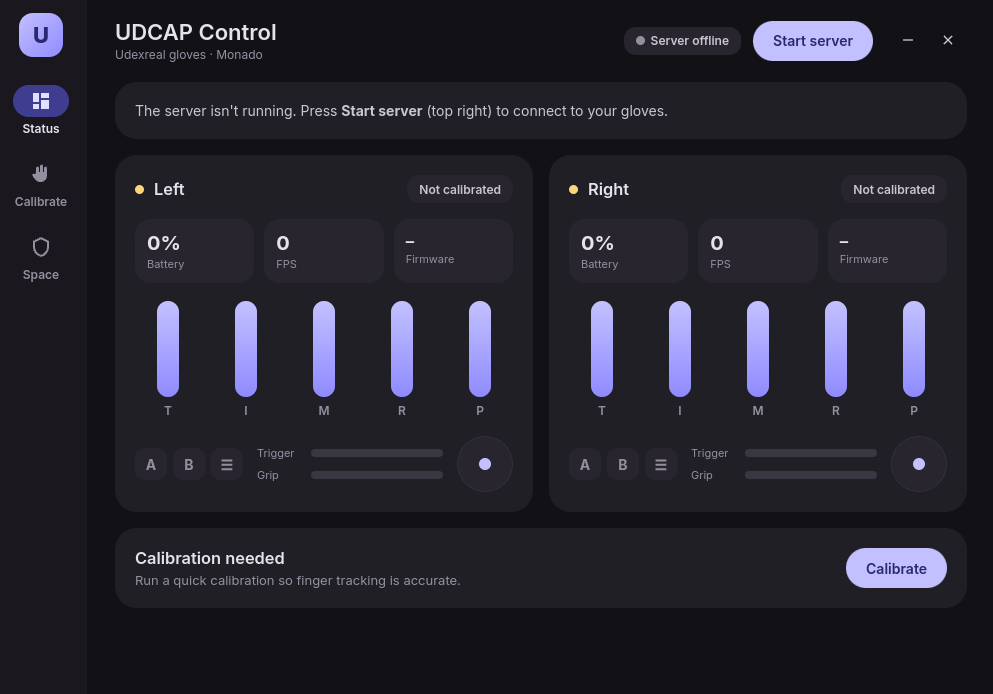
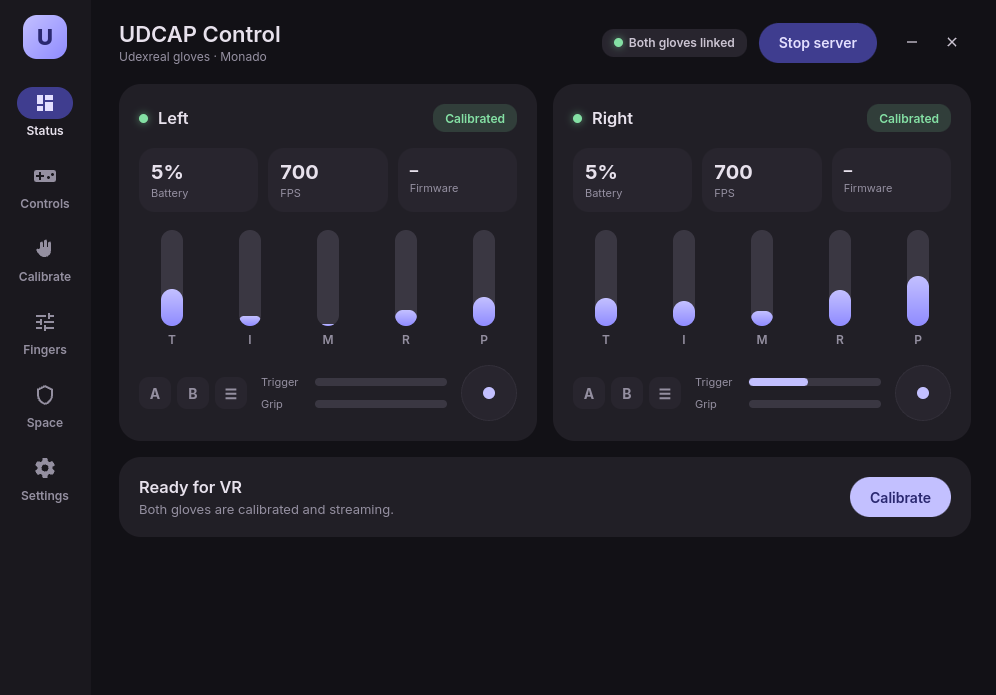
feat: added error messages to the UI

diff --git a/src/lib/screens/Calibration.svelte b/src/lib/screens/Calibration.svelte
@@ -7,31 +7,46 @@
   const hands = $derived(shm?.hands ?? []);
   const linked = $derived(hands.filter((h) => h.present && h.link === 3).length);
 
-  // 0 intro · 1 fist · 2 together · 3 spread · 4 done
-  let step = $state(0);
-
   const poses = [
-    { emoji: "✊", title: "Lightly make a fist", hint: "Curl all fingers loosely.", cmd: CMD.CALIB_FIST },
-    { emoji: "🤚", title: "Close five fingers together", hint: "Flat hand, fingers straight and touching.", cmd: CMD.CALIB_TOGETHER },
-    { emoji: "🖐", title: "Spread out five fingers", hint: "Flat hand, fingers spread wide apart.", cmd: CMD.CALIB_SPREAD },
+    { emoji: "✊", title: "Make a fist", hint: "Curl all fingers loosely.", cmd: CMD.CALIB_FIST },
+    { emoji: "🤚", title: "Fingers together", hint: "Flat hand, fingers straight and touching.", cmd: CMD.CALIB_TOGETHER },
+    { emoji: "🖐", title: "Spread fingers", hint: "Flat hand, fingers spread wide apart.", cmd: CMD.CALIB_SPREAD },
   ];
 
-  async function start() {
+  const HOLD = 4; // seconds to hold each pose before capture
+
+  let phase = $state<"intro" | "running" | "done">("intro");
+  let poseIndex = $state(0);
+  let countdown = $state(0); // seconds remaining; 0 = capturing
+  let cancelled = false;
+
+  const sleep = (ms: number) => new Promise((r) => setTimeout(r, ms));
+
+  async function run() {
+    cancelled = false;
+    phase = "running";
     await sendCommand(CMD.CALIB_START);
-    step = 1;
-  }
-  async function capture() {
-    const pose = poses[step - 1];
-    await sendCommand(pose.cmd);
-    if (step === 3) {
-      await sendCommand(CMD.CALIB_COMPLETE);
-      step = 4;
-    } else {
-      step += 1;
+    for (let i = 0; i < poses.length; i++) {
+      poseIndex = i;
+      for (let s = HOLD; s > 0; s--) {
+        if (cancelled) return;
+        countdown = s;
+        await sleep(1000);
+      }
+      if (cancelled) return;
+      countdown = 0; // "captured" flash
+      await sendCommand(poses[i].cmd);
+      await sleep(500);
     }
+    if (cancelled) return;
+    await sendCommand(CMD.CALIB_COMPLETE);
+    phase = "done";
   }
-  function restart() {
-    step = 0;
+
+  function cancel() {
+    cancelled = true;
+    sendCommand(CMD.CALIB_CANCEL);
+    phase = "intro";
   }
 </script>
 
@@ -43,27 +58,34 @@
         <h2>Connect your gloves first</h2>
         <p class="muted">Start the server and power on both gloves (linked, not pairing).</p>
       </div>
-    {:else if step === 0}
+    {:else if phase === "intro"}
       <div class="center">
         <h2>Calibrate both hands</h2>
-        <p class="muted">Put the gloves on. We'll capture three quick poses on each hand.</p>
+        <p class="muted">
+          Put the gloves on. After you press start, follow the on-screen poses — each is captured
+          automatically after a short countdown, so keep both hands free.
+        </p>
         <div class="poserow">
           {#each poses as p}
             <div class="posecard"><span class="pemoji">{p.emoji}</span><span>{p.title}</span></div>
           {/each}
         </div>
-        <button class="btn filled state-layer" onclick={start}>Start calibration</button>
+        <button class="btn filled state-layer" onclick={run}>Start calibration</button>
         {#if linked === 1}<p class="warn">Only one glove is linked — the other won't be calibrated.</p>{/if}
       </div>
-    {:else if step >= 1 && step <= 3}
-      {@const pose = poses[step - 1]}
+    {:else if phase === "running"}
+      {@const pose = poses[poseIndex]}
       <div class="center">
         <div class="steps">
-          {#each [1, 2, 3] as s}<span class="sdot" class:done={step > s} class:active={step === s}></span>{/each}
+          {#each poses as _, s}<span class="sdot" class:done={poseIndex > s} class:active={poseIndex === s}></span>{/each}
         </div>
         <div class="big">{pose.emoji}</div>
         <h2>{pose.title}</h2>
-        <p class="muted">{pose.hint}  Hold the pose, then capture.</p>
+        <p class="muted">{pose.hint}</p>
+
+        <div class="counter" class:capturing={countdown === 0}>
+          {#if countdown > 0}{countdown}{:else}Captured ✓{/if}
+        </div>
 
         <div class="preview">
           {#each hands as h, hi}
@@ -78,16 +100,14 @@
           {/each}
         </div>
 
-        <button class="btn filled state-layer" onclick={capture}>
-          {step === 3 ? "Capture & finish" : "Capture"}
-        </button>
+        <button class="btn text state-layer" onclick={cancel}>Cancel</button>
       </div>
     {:else}
       <div class="center">
         <div class="big">✅</div>
         <h2>Calibration complete</h2>
         <p class="muted">Finger tracking should now match your hands.</p>
-        <button class="btn tonal state-layer" onclick={restart}>Calibrate again</button>
+        <button class="btn tonal state-layer" onclick={() => (phase = "intro")}>Calibrate again</button>
       </div>
     {/if}
   </div>
@@ -115,7 +135,7 @@
   .muted {
     color: var(--muted);
     margin: 0;
-    max-width: 420px;
+    max-width: 440px;
   }
   .warn {
     color: var(--warn);
@@ -158,6 +178,23 @@
   .sdot.done {
     background: var(--success);
   }
+  .counter {
+    width: 88px;
+    height: 88px;
+    border-radius: 50%;
+    display: grid;
+    place-items: center;
+    font-size: 40px;
+    font-weight: 800;
+    color: var(--primary);
+    background: var(--primary-container);
+    font-variant-numeric: tabular-nums;
+  }
+  .counter.capturing {
+    font-size: 20px;
+    color: var(--success);
+    background: rgba(132, 224, 164, 0.16);
+  }
   .preview {
     display: flex;
     gap: 24px;
@@ -175,7 +212,7 @@
   }
   .pbar {
     width: 12px;
-    height: 60px;
+    height: 56px;
     background: var(--track);
     border-radius: var(--radius-pill);
     display: flex;

diff --git a/src/lib/screens/Status.svelte b/src/lib/screens/Status.svelte
@@ -30,7 +30,9 @@
   }
 
   const shm = $derived(app.status?.shm ?? null);
-  const live = $derived(!!shm && shm.server_pid !== 0);
+  const running = $derived(app.status?.server_running ?? false);
+  const live = $derived(running || (!!shm && shm.server_pid !== 0));
+  const shmError = $derived(app.status?.shm_error ?? null);
   const hands = $derived(shm?.hands ?? []);
   const ready = $derived(hands.length === 2 && hands.every((h) => h.present && h.calibrated));
 
@@ -112,6 +114,10 @@
     <div class="card banner">
       <p>The server isn't running. Press <b>Start server</b> (top right) to connect to your gloves.</p>
     </div>
+  {:else if shmError}
+    <div class="card banner err">
+      <p>Server is running but the shared memory can't be read: <code>{shmError}</code></p>
+    </div>
   {/if}
 
   <div class="gloves">
@@ -142,6 +148,16 @@
   .banner p {
     margin: 0;
     color: var(--on-surface-var);
+  }
+  .banner.err {
+    border: 1px solid var(--error);
+  }
+  .banner.err code {
+    background: var(--surface-2);
+    padding: 1px 6px;
+    border-radius: 5px;
+    color: var(--error);
+    font-size: 12px;
   }
   .setup {
     display: flex;

diff --git a/src/routes/+page.svelte b/src/routes/+page.svelte
@@ -19,7 +19,8 @@
 
   const shm = $derived(app.status?.shm ?? null);
   const running = $derived(app.status?.server_running ?? false);
-  const live = $derived(!!shm && shm.server_pid !== 0);
+  // "Server up" = our process is alive, or an externally-started server is publishing.
+  const live = $derived(running || (!!shm && shm.server_pid !== 0));
   const linked = $derived(shm ? shm.hands.filter((h) => h.present && h.link === 3).length : 0);
 
   async function toggleServer() {

diff --git a/src/lib/api.ts b/src/lib/api.ts
@@ -37,6 +37,7 @@ export interface ShmView {
 export interface Status {
   server_running: boolean;
   shm: ShmView | null;
+  shm_error: string | null;
 }
 
 export const CMD = {

diff --git a/src-tauri/src/lib.rs b/src-tauri/src/lib.rs
@@ -19,23 +19,34 @@ struct Status {
     server_running: bool,
     /// Live shared-memory view (None if no server/shm is available).
     shm: Option<ShmView>,
+    /// Why the shm couldn't be opened (e.g. version mismatch), if applicable.
+    shm_error: Option<String>,
 }
 
-fn ensure_shm(state: &AppState) {
+fn ensure_shm(state: &AppState) -> Option<String> {
     let mut guard = state.shm.lock().unwrap();
     if guard.is_none() {
-        if let Ok(m) = ShmMap::open() {
-            *guard = Some(m);
-        }
+        return match ShmMap::open() {
+            Ok(m) => {
+                *guard = Some(m);
+                None
+            }
+            Err(e) => Some(e),
+        };
     }
+    None
 }
 
 #[tauri::command]
 fn poll(state: State<AppState>) -> Status {
     let server_running = state.server.lock().unwrap().running();
-    ensure_shm(&state);
+    let shm_error = ensure_shm(&state);
     let shm = state.shm.lock().unwrap().as_ref().map(|m| m.view());
-    Status { server_running, shm }
+    Status {
+        server_running,
+        shm,
+        shm_error,
+    }
 }
 
 // Find the udcap-server binary without any hard-coded paths: user override ->
@@ -75,6 +86,14 @@ fn server_start(
     tracker_left: String,
     tracker_right: String,
 ) -> Result<(), String> {
+    // On a fresh start, clear any stale segment (e.g. from an older server
+    // version) so the new server creates a clean one, and drop our old mapping
+    // so we re-open the fresh inode.
+    if !state.server.lock().unwrap().running() {
+        let _ = std::fs::remove_file(shm::SHM_PATH);
+        *state.shm.lock().unwrap() = None;
+    }
+
     let bin = {
         let s = state.server.lock().unwrap();
         resolve_server_bin(&app, &s.bin)

diff --git a/src-tauri/src/shm.rs b/src-tauri/src/shm.rs
@@ -8,7 +8,7 @@ use std::sync::atomic::{fence, AtomicU32, Ordering};
 
 pub const SHM_PATH: &str = "/dev/shm/udcap_hands";
 pub const SHM_MAGIC: u32 = 0x5544_4331;
-pub const SHM_VERSION: u32 = 4;
+pub const SHM_VERSION: u32 = 5;
 pub const HAND_COUNT: usize = 2;
 
 const MAX_BEND_RAD: f32 = 1.5;
